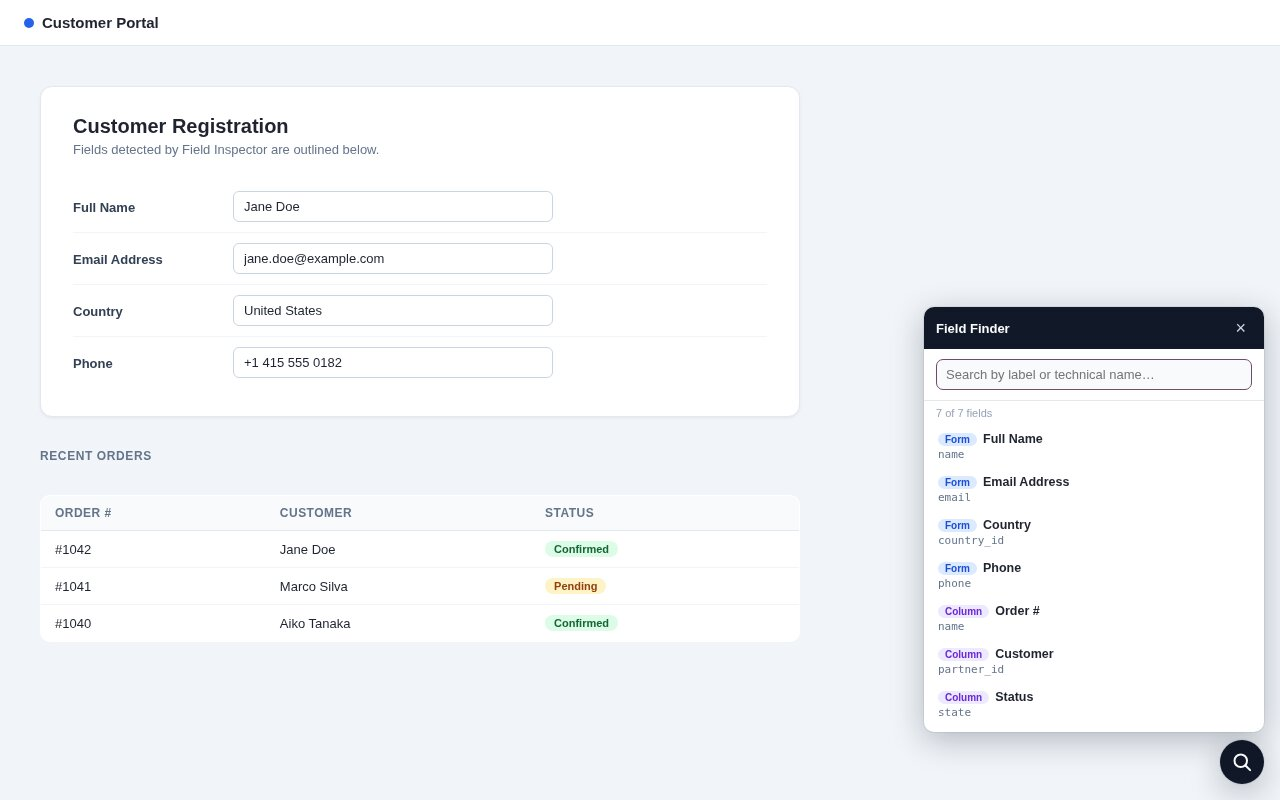
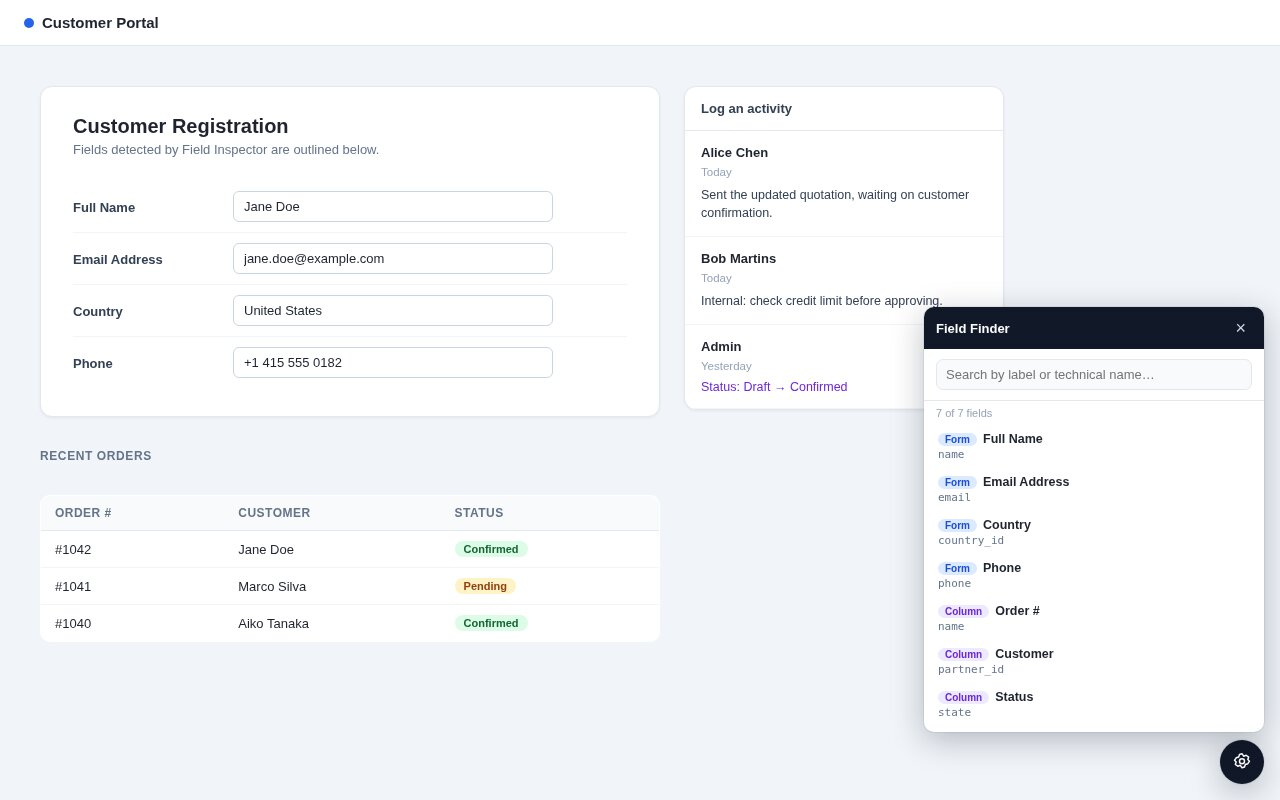
[Update] Updated screenshorts

diff --git a/docs/index.html b/docs/index.html
@@ -29,7 +29,7 @@
   "name": "Odoo Field Inspector",
   "applicationCategory": "DeveloperApplication",
   "operatingSystem": "Chrome",
-  "description": "Click any Odoo form field or list column to see its technical field name, CSS selector, XPath, and live ir.model.fields definition, right on the page.",
+  "description": "Click any Odoo form field or list column to see its technical field name, CSS selector, XPath, and live ir.model.fields definition, right on the page. Also includes a visual Odoo domain builder and a local Chatter Manager for reading, searching, and filtering already-loaded chatter messages.",
   "url": "https://mehedimk.github.io/Odoo-Field-Inspector/",
   "image": "https://mehedimk.github.io/Odoo-Field-Inspector/assets/og-image.jpg",
   "offers": {
@@ -152,6 +152,8 @@
         <span class="chip">Technical Field Name</span>
         <span class="chip">ir.model.fields</span>
         <span class="chip">Field Finder</span>
+        <span class="chip">Domain Builder</span>
+        <span class="chip">Chatter Manager</span>
       </div>
     </div>
   </div>
@@ -175,6 +177,14 @@
         <p>Search every field and list column on the page by label or technical name, live as you type. Open inside an Odoo wizard and it automatically scopes to just that dialog.</p>
       </div>
       <div class="feature-card">
+        <h3>Visual Domain Builder</h3>
+        <p>Build an Odoo search domain from the model's real fields — labels, types, and selection choices via <code>fields_get</code> — then copy it as a Python domain or JSON. Nothing is applied to records; it only generates the filter text.</p>
+      </div>
+      <div class="feature-card">
+        <h3>Chatter Manager</h3>
+        <p>Hide a form's chatter to reclaim screen space, or expand it into a searchable, filterable reader for already-loaded messages, notes, and tracked field changes — entirely local, no network requests.</p>
+      </div>
+      <div class="feature-card">
         <h3>Form fields and list/table columns</h3>
         <p>Works on standard HTML forms and tables too, not just Odoo — labels, inputs, selects, textareas, ARIA-labelled custom controls, and <code>&lt;th&gt;</code>/grid columns.</p>
       </div>
@@ -184,7 +194,7 @@
       </div>
       <div class="feature-card">
         <h3>Nothing leaves your browser</h3>
-        <p>Except one explicit, toggleable exception: the Odoo field lookup, which asks the same Odoo server you're already logged into — never a third-party server. See the <a href="privacy.html">privacy policy</a>.</p>
+        <p>Except one explicit, toggleable exception: Odoo field/model lookups, which ask the same Odoo server you're already logged into — never a third-party server. See the <a href="privacy.html">privacy policy</a>.</p>
       </div>
     </div>
   </div>
@@ -208,6 +218,16 @@
     <div class="shot">
       <img src="assets/screenshot_3_popup.jpg" alt="Extension popup showing the Enable Inspector toggle and Odoo Developer Mode setting" width="1280" height="800" />
       <div class="shot-caption">The popup: turn the inspector on, choose detection modes, and toggle Odoo Developer Mode.</div>
+    </div>
+
+    <div class="shot">
+      <img src="assets/screenshot_4_domain_builder.jpg" alt="Visual Domain Builder panel with a model's fields loaded and two search conditions being combined" width="1280" height="800" />
+      <div class="shot-caption">Domain Builder: pick fields by label or technical name, combine conditions, and copy the result as a Python domain or JSON.</div>
+    </div>
+
+    <div class="shot">
+      <img src="assets/screenshot_5_chatter_manager.jpg" alt="Chatter Manager panel showing a searchable list of loaded chatter messages and internal notes" width="1280" height="800" />
+      <div class="shot-caption">Chatter Manager: hide or expand a form's chatter, then search and filter its already-loaded messages, notes, and tracked changes.</div>
     </div>
   </div>
 </section>

diff --git a/README.md b/README.md
@@ -61,16 +61,30 @@ show the field's real, authoritative definition.
   values render as color-coded pills (relational = purple, boolean =
   green, numeric = orange, date/time = teal, selection = pink,
   text-like = blue) so a field's shape is recognizable at a glance.
-- **Field Finder** — a floating search button opens a panel that indexes
-  every field/column on the page (label + technical name) and filters
-  live as you type; click a result to jump straight to its full
-  inspector panel. If an Odoo wizard (dialog) is open, the search is
-  automatically scoped to just that wizard's fields. See
-  [Field Finder](#field-finder) below.
-- **Inspection history, jump-to-element, per-tab copy** — a breadcrumb
-  strip lets you reopen any of your last few inspected fields; a header
-  button scrolls the real page element into view and flashes it; each
-  tab has its own "Copy Tab" button alongside the existing Copy All.
+- **Field Finder** — indexes every field/column on the page (label +
+  technical name) and filters live as you type; click a result to jump
+  straight to its full inspector panel. If an Odoo wizard (dialog) is
+  open, the search is automatically scoped to just that wizard's
+  fields. See [Field Finder](#field-finder) below.
+- **Visual Domain Builder** — compose an Odoo search domain from a
+  model's real fields (labels, types, selection choices, via
+  `fields_get`), combine conditions with AND/OR, and copy the result as
+  a Python domain or JSON. Never applied to records — it only generates
+  the filter text. See [Domain Builder](#domain-builder) below.
+- **Chatter Manager** — hide a form's chatter to reclaim screen space,
+  or expand it into a searchable, filterable local reader for
+  already-loaded messages, internal notes, and tracked field changes.
+  No network requests. See [Chatter Manager](#chatter-manager) below.
+- **Floating Options menu** — a single gear-icon button (bottom-right,
+  while the inspector is enabled) opens Search Fields, Domain Builder,
+  Chatter Manager, Recent Fields, Highlight/Odoo Developer Mode
+  toggles, Copy Current Field, and Disable Inspector — all without
+  opening the popup.
+- **Inspection history, jump-to-element, per-tab copy** — "Recent
+  Fields" in the Options menu lets you reopen any of your last few
+  inspected fields; a header button scrolls the real page element into
+  view and flashes it; each tab has its own "Copy Tab" button alongside
+  the existing Copy All.
 - **Draggable, theme-aware panel** — drag the panel by its header to
   reposition it anywhere on screen; it follows your system's light/dark
   theme automatically.
@@ -85,7 +99,10 @@ chrome-field-inspector/
 │   ├── utils.js             # CSS selector / XPath generators, attribute helpers
 │   ├── odoo.js              # Odoo model detection + live ir.model.fields RPC lookup
 │   ├── detector.js         # Field/column detection, classification, MutationObserver
-│   ├── ui.js                # Shadow DOM inspector panel (render + copy logic)
+│   ├── ui.js                # Shadow DOM inspector panel (tabs, Options menu, Field Finder)
+│   ├── domain.js            # Odoo domain serialization/validation (no eval, no RPC)
+│   ├── domain-builder.js   # Domain Builder UI, built on domain.js + ui.js's Shadow DOM
+│   ├── chatter.js           # Chatter Manager: local reader, no RPC calls
 │   └── content.js          # Orchestrator: event delegation, message handling
 ├── content.css             # Page-level highlight styles (scoped, !important, outline-only)
 ├── popup/
@@ -95,6 +112,11 @@ chrome-field-inspector/
 ├── icons/
 │   ├── icon16.png / icon32.png / icon48.png / icon128.png
 │   └── icon.svg            # Vector source for the icons above (dev-only)
+├── tests/                  # Dev-only: not packaged, not referenced by manifest.json
+│   ├── domain.test.cjs       # node --test unit tests for content/domain.js
+│   ├── run-browser-tests.cjs # Drives the two fixtures below via headless Chrome --dump-dom
+│   ├── domain-builder.html   # Domain Builder integration fixture + assertions
+│   └── chatter.html          # Chatter Manager integration fixture + assertions
 ├── docs/                   # GitHub Pages site: landing page + hosted privacy policy
 │   ├── index.html            # SEO landing page (Open Graph, JSON-LD, screenshots)
 │   ├── privacy.html          # Rendered copy of PRIVACY_POLICY.md, for a stable public URL
@@ -102,18 +124,26 @@ chrome-field-inspector/
 │   └── assets/                # Images used only by the pages above
 ├── README.md
 ├── PRIVACY_POLICY.md       # Full privacy policy (dev-only, see below)
-└── STORE_LISTING.md        # Chrome Web Store submission copy (dev-only)
+├── STORE_LISTING.md        # Chrome Web Store submission copy (dev-only)
+└── CHECKLIST_README.md     # Internal pre-publication checklist (dev-only)
 ```
 
-`README.md`, `PRIVACY_POLICY.md`, `STORE_LISTING.md`, `icons/icon.svg`,
-`docs/`, and `promo/` (screenshot sources) are documentation/dev assets —
-none of them are referenced by `manifest.json`, so none of them are
-included in the packaged `.zip` uploaded to the Chrome Web Store.
-`docs/` is served separately, as a GitHub Pages site (see
-[`STORE_LISTING.md`](STORE_LISTING.md) for the exact steps to enable it) —
-it's the extension's public landing page and the hosted URL for its
+`README.md`, `PRIVACY_POLICY.md`, `STORE_LISTING.md`, `CHECKLIST_README.md`,
+`icons/icon.svg`, `tests/`, `docs/`, and `promo/` (screenshot sources) are
+documentation/dev assets — none of them are referenced by `manifest.json`,
+so none of them are included in the packaged `.zip` uploaded to the
+Chrome Web Store. `docs/` is served separately, as a GitHub Pages site
+(see [`STORE_LISTING.md`](STORE_LISTING.md) for the exact steps to enable
+it) — it's the extension's public landing page and the hosted URL for its
 privacy policy, not something a Chrome user ever loads as part of the
 extension itself.
+
+Run the test suite with:
+
+```sh
+node --test tests/domain.test.cjs   # pure-logic unit tests
+node tests/run-browser-tests.cjs    # headless-Chrome integration checks (needs google-chrome or $CHROME_BIN)
+```
 
 ## Architecture
 

diff --git a/STORE_LISTING.md b/STORE_LISTING.md
@@ -228,11 +228,11 @@ tool" — most of that traffic never opens the Chrome Web Store first.
 | Asset | Requirement | Status |
 |---|---|---|
 | Store icon | 128×128 PNG | ✅ `icons/icon128.png` (bundled in the package; also upload separately if the dashboard asks) |
-| Screenshot(s) | 1280×800 or 640×400, at least 1, up to 5 | ✅ 3 screenshots at 1280×800, all generated from the real extension (not hand-drawn mockups) |
+| Screenshot(s) | 1280×800 or 640×400, at least 1, up to 5 | ✅ 5 screenshots at 1280×800 (the CWS max), all generated from the real extension (not hand-drawn mockups) |
 | Small promo tile | 440×280 PNG, optional | ✅ `promo/promo_tile_440x280.png` |
 | Marquee | 1400×560 PNG, optional | Not created — optional, only needed if Google features the extension |
 
-Current screenshots (`promo/`):
+Current screenshots (`promo/`), at the CWS's 5-screenshot cap:
 1. `screenshot_1_panel.png` — the tabbed panel's Odoo Field tab on a many2one
    field: model/type/relation, the `many2one` type chip, "Declared In
    Current View", and the "Open in Odoo" link.
@@ -243,12 +243,16 @@ Current screenshots (`promo/`):
    Modes, Odoo Developer Mode) composited into a browser-chrome mockup;
    the popup itself is the real rendered extension UI, only the
    surrounding browser frame/page behind it is illustrative.
+4. `screenshot_4_domain_builder.png` — the Domain Builder with a model's
+   fields loaded and two conditions being combined with AND.
+5. `screenshot_5_chatter_manager.png` — the Chatter Manager reader with
+   loaded messages, an internal note, and the search/filter controls.
 
-All three use a self-contained demo HTML page (fabricated Odoo-style
-markup + fabricated field metadata), not a real Odoo instance or real
-data — safe to regenerate any time after a UI change. Consider swapping
-in 1–2 screenshots from your own live Odoo instance before submitting,
-since only you can log into it.
+All five use a self-contained demo HTML page (fabricated Odoo-style
+markup + fabricated field/model metadata), not a real Odoo instance or
+real data — safe to regenerate any time after a UI change. Since the
+cap is already reached, swapping one of these for a real-Odoo screenshot
+(rather than adding a 6th) is the only way to add one later.
 
 ## Package
 
@@ -270,9 +274,11 @@ and `promo/` are dev-only and intentionally excluded from the package.
    `manifest.json`'s `name` to match before rebuilding the zip.
 3. Load-unpacked test the exact zipped contents one more time (not just
    your working directory) to make sure nothing needed got excluded.
-4. The three `promo/` screenshots are current as of the tabbed-panel,
-   colored type chips, and Field Finder UI. Regenerate them (or add
-   real-Odoo ones) if the panel's look changes again before submitting.
+4. The five `promo/` screenshots are current as of the tabbed-panel,
+   colored type chips, Field Finder, Domain Builder, and Chatter Manager
+   UI. Regenerate them (or swap in real-Odoo ones) if the panel's look
+   changes again before submitting — five is the CWS cap, so a new one
+   means replacing an existing slot, not adding a sixth.
 5. Enable GitHub Pages for `/docs` (see **Privacy practices tab** above)
    and confirm `https://mehedimk.github.io/Odoo-Field-Inspector/privacy.html`
    actually loads before submitting — the submission will be rejected
